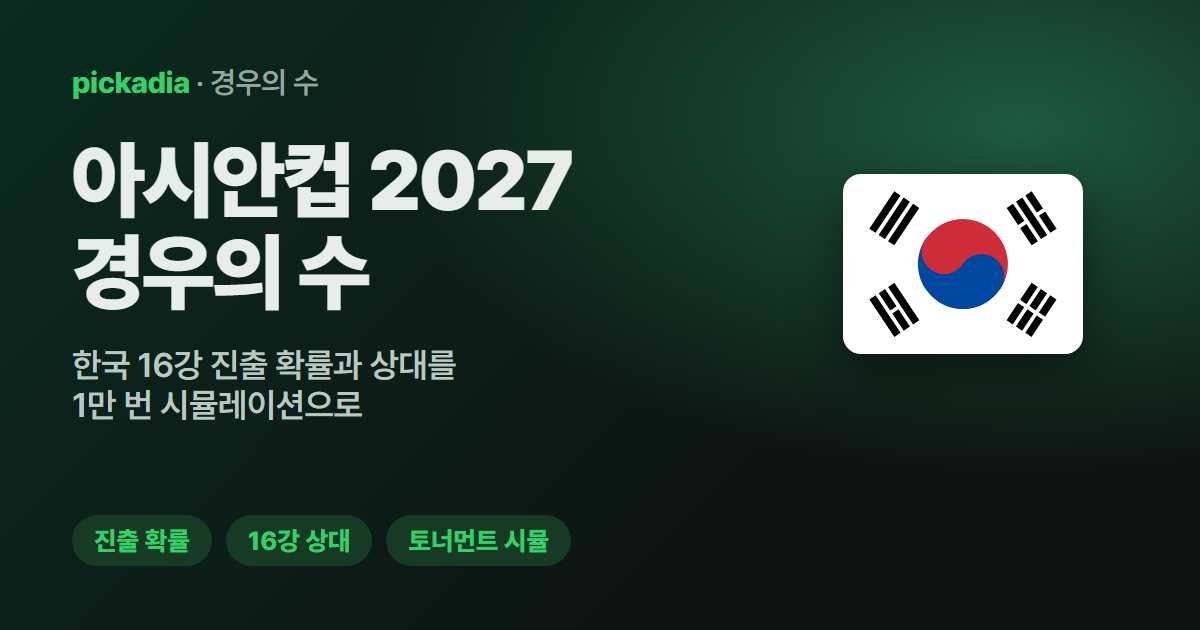
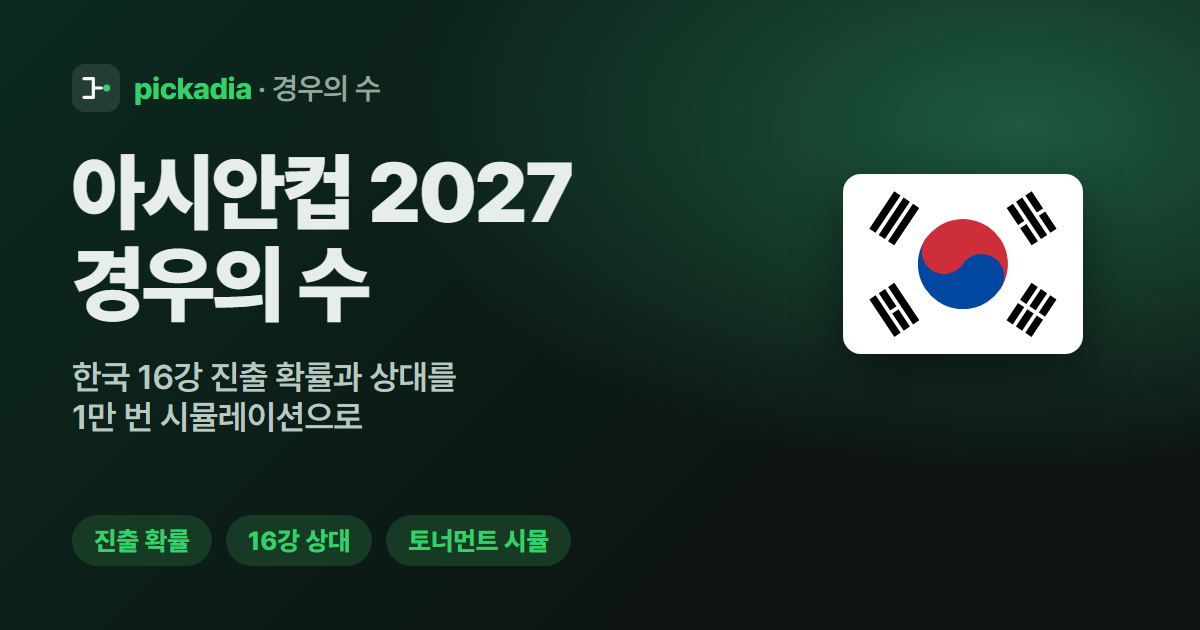
미리보기 이미지에 새 로고 마크 넣고 월드컵 이미지를 2026 다시 돌려보기로 교체

Changed region(s): [[0.0617, 0.2111, 0.4933, 0.5127], [0.0617, 0.5429, 0.4008, 0.6937], [0.0617, 0.0905, 0.3392, 0.181]]

diff --git a/public/nations.html b/public/nations.html
@@ -11,7 +11,7 @@
 <meta property="og:url" content="https://pickadia.com/nations">
 <meta property="og:site_name" content="pickadia · 경우의 수">
 <meta property="og:locale" content="ko_KR">
-<meta property="og:image" content="https://pickadia.com/img/og-nations.png">
+<meta property="og:image" content="https://pickadia.com/img/og-nations.png?v=2">
 <meta property="og:image:width" content="1200">
 <meta property="og:image:height" content="630">
 <meta property="og:image:alt" content="UEFA 네이션스리그 2026-27 리그 A 경우의 수 · 8강 진출과 강등 확률">

diff --git a/public/index.html b/public/index.html
@@ -11,7 +11,7 @@
 <meta property="og:url" content="https://pickadia.com/">
 <meta property="og:site_name" content="pickadia · 경우의 수">
 <meta property="og:locale" content="ko_KR">
-<meta property="og:image" content="https://pickadia.com/img/og-asiancup.png">
+<meta property="og:image" content="https://pickadia.com/img/og-asiancup.png?v=2">
 <meta property="og:image:width" content="1200">
 <meta property="og:image:height" content="630">
 <meta property="og:image:alt" content="아시안컵 2027 경우의 수 · 한국 16강 진출 확률">

diff --git a/public/euro.html b/public/euro.html
@@ -11,7 +11,7 @@
 <meta property="og:url" content="https://pickadia.com/euro">
 <meta property="og:site_name" content="pickadia · 경우의 수">
 <meta property="og:locale" content="ko_KR">
-<meta property="og:image" content="https://pickadia.com/img/og-euro.png">
+<meta property="og:image" content="https://pickadia.com/img/og-euro.png?v=2">
 <meta property="og:image:width" content="1200">
 <meta property="og:image:height" content="630">
 <meta property="og:image:alt" content="유로 2024 다시 돌려보기 · 우승 확률과 대진표">

diff --git a/public/worldcup.html b/public/worldcup.html
@@ -11,7 +11,7 @@
 <meta property="og:url" content="https://pickadia.com/worldcup">
 <meta property="og:site_name" content="pickadia · 경우의 수">
 <meta property="og:locale" content="ko_KR">
-<meta property="og:image" content="https://pickadia.com/img/og-worldcup.png">
+<meta property="og:image" content="https://pickadia.com/img/og-worldcup.png?v=2">
 <meta property="og:image:width" content="1200">
 <meta property="og:image:height" content="630">
 <meta property="og:image:alt" content="2030 월드컵 아시아 예선 경우의 수">
